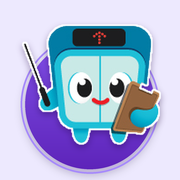
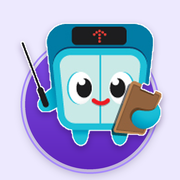
아이콘: 테두리 더 얇게, 확대 시 깨짐 완화
Claude-Session: https://claude.ai/code/session_01WnRVds5Vd9abyHj35Nw81E

Changed region(s): [[0.1111, 0.1111, 0.9167, 0.8333]]

diff --git a/sw.js b/sw.js
@@ -1,5 +1,5 @@
 /* 오프라인·빠른 실행용 캐시. 앱 파일과 연혁집 데이터는 캐시, 서버(Firebase)·날씨는 항상 네트워크. */
-const VER='hub-v4';
+const VER='hub-v5';
 const SHELL=['./','./index.html','./config.js','./tailwind.css','./vendor/firebase-app-compat.js','./vendor/firebase-auth-compat.js','./vendor/firebase-firestore-compat.js','./manifest.webmanifest','./icon-192.png','./icon-512.png','./apple-touch-icon.png'];
 self.addEventListener('install',e=>{e.waitUntil(caches.open(VER).then(c=>c.addAll(SHELL)).then(()=>self.skipWaiting()))});
 self.addEventListener('activate',e=>{e.waitUntil(caches.keys().then(ks=>Promise.all(ks.filter(k=>k!==VER).map(k=>caches.delete(k)))).then(()=>self.clients.claim()))});

diff --git a/index.html b/index.html
@@ -11,8 +11,8 @@
 <meta name="apple-mobile-web-app-capable" content="yes">
 <meta name="apple-mobile-web-app-status-bar-style" content="black-translucent">
 <meta name="apple-mobile-web-app-title" content="안전 허브">
-<link rel="apple-touch-icon" href="apple-touch-icon.png?v=3">
-<link rel="icon" href="icon-192.png?v=3">
+<link rel="apple-touch-icon" href="apple-touch-icon.png?v=4">
+<link rel="icon" href="icon-192.png?v=4">
 <script src="vendor/firebase-app-compat.js"></script>
 <script src="vendor/firebase-auth-compat.js"></script>
 <script src="vendor/firebase-firestore-compat.js"></script>
